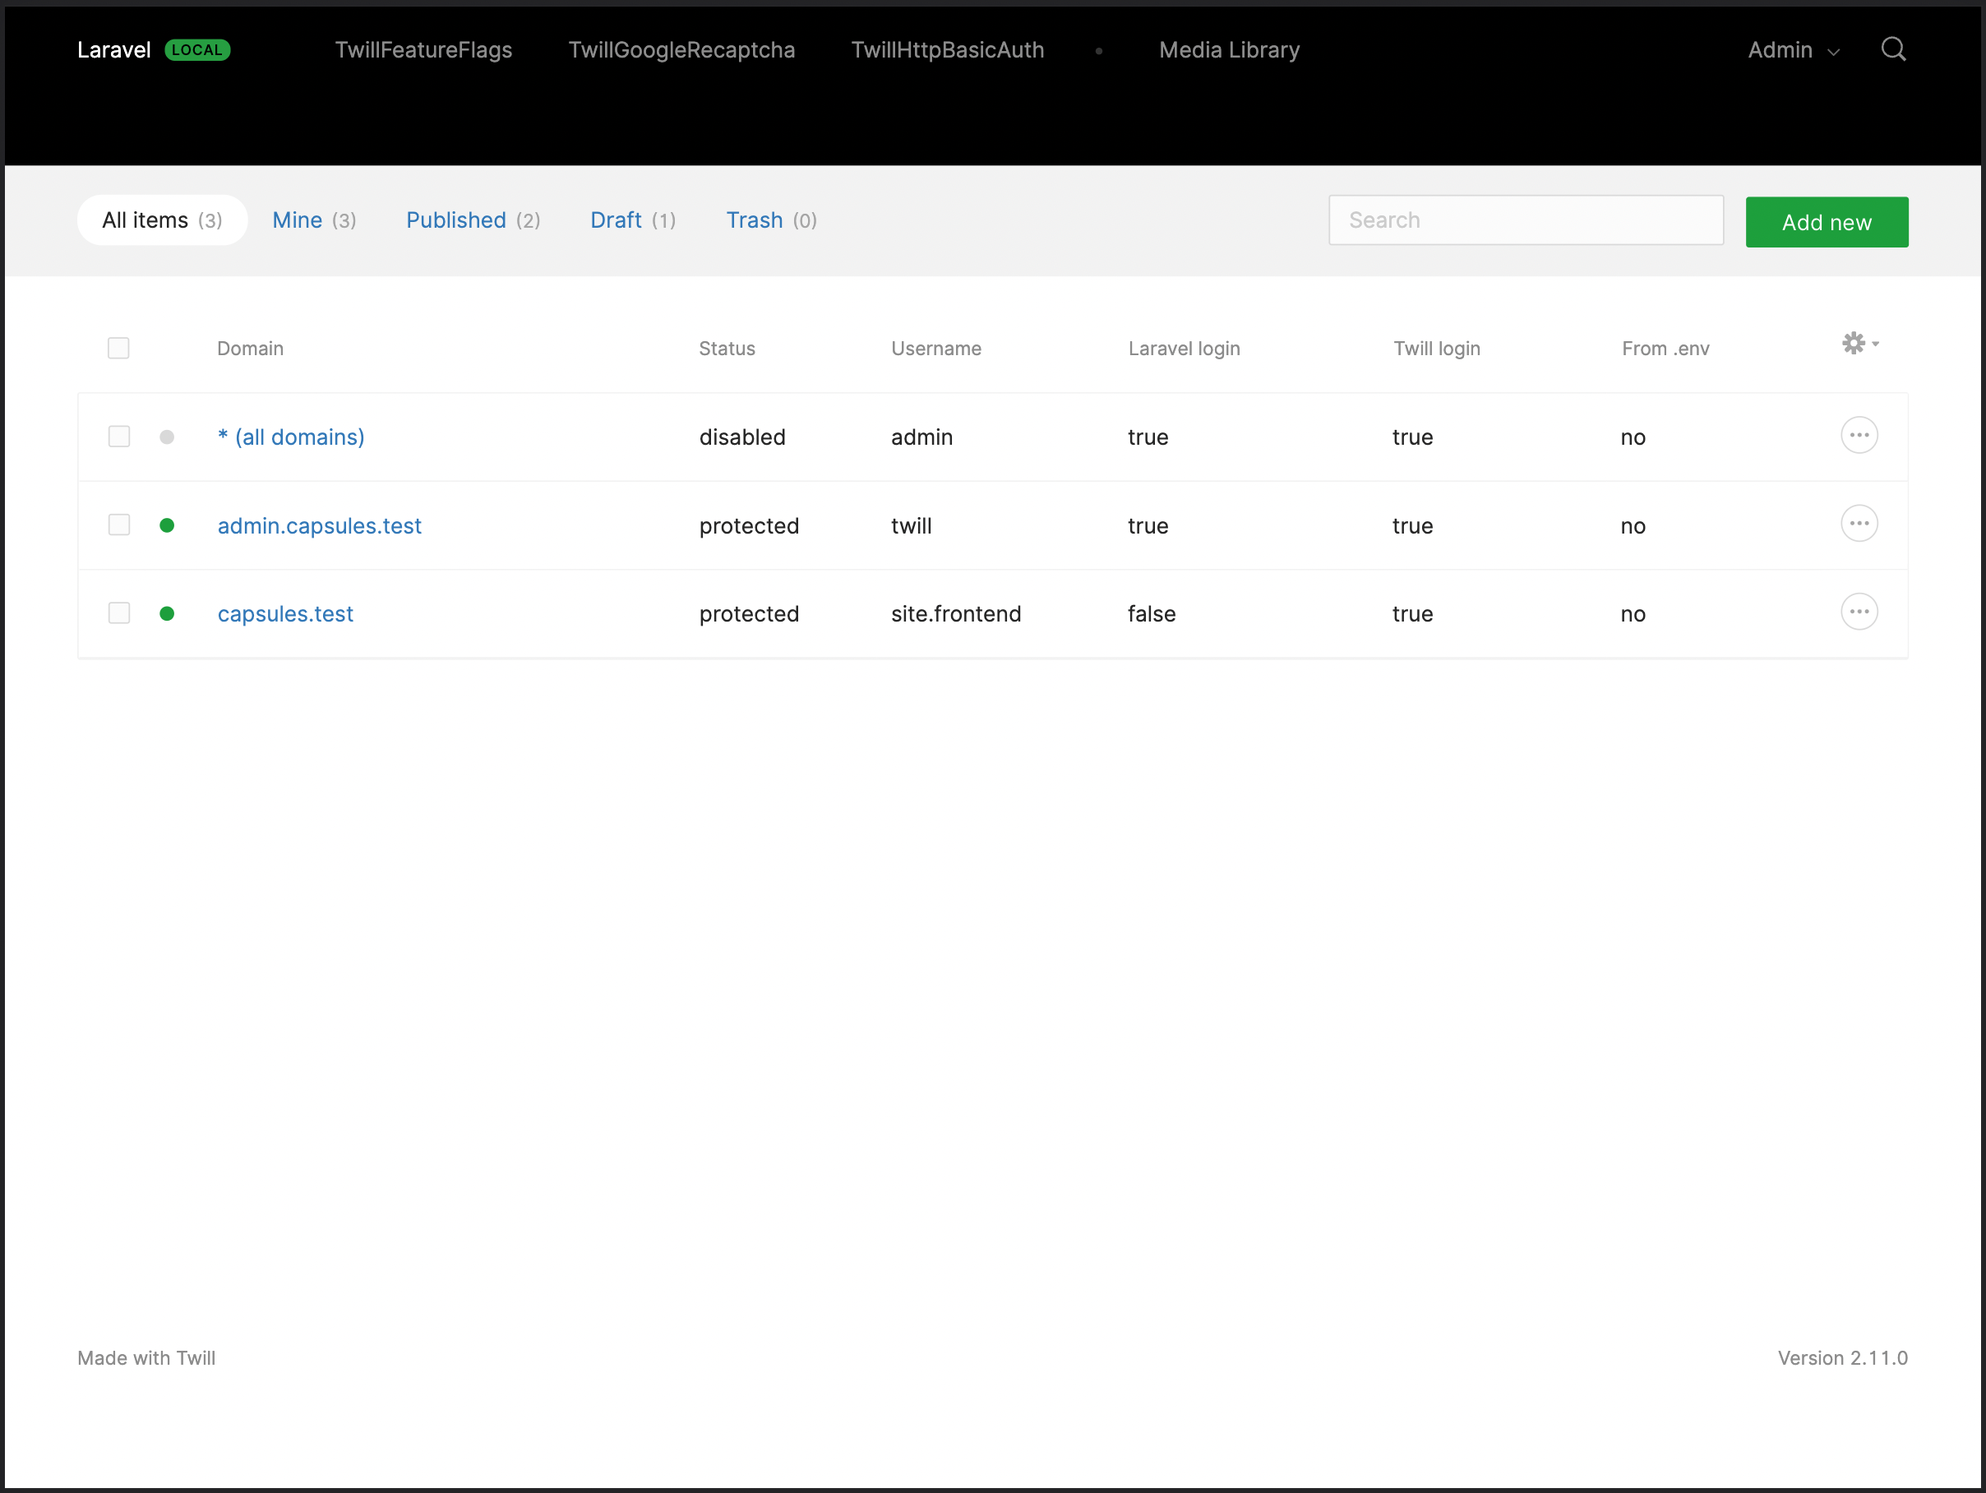
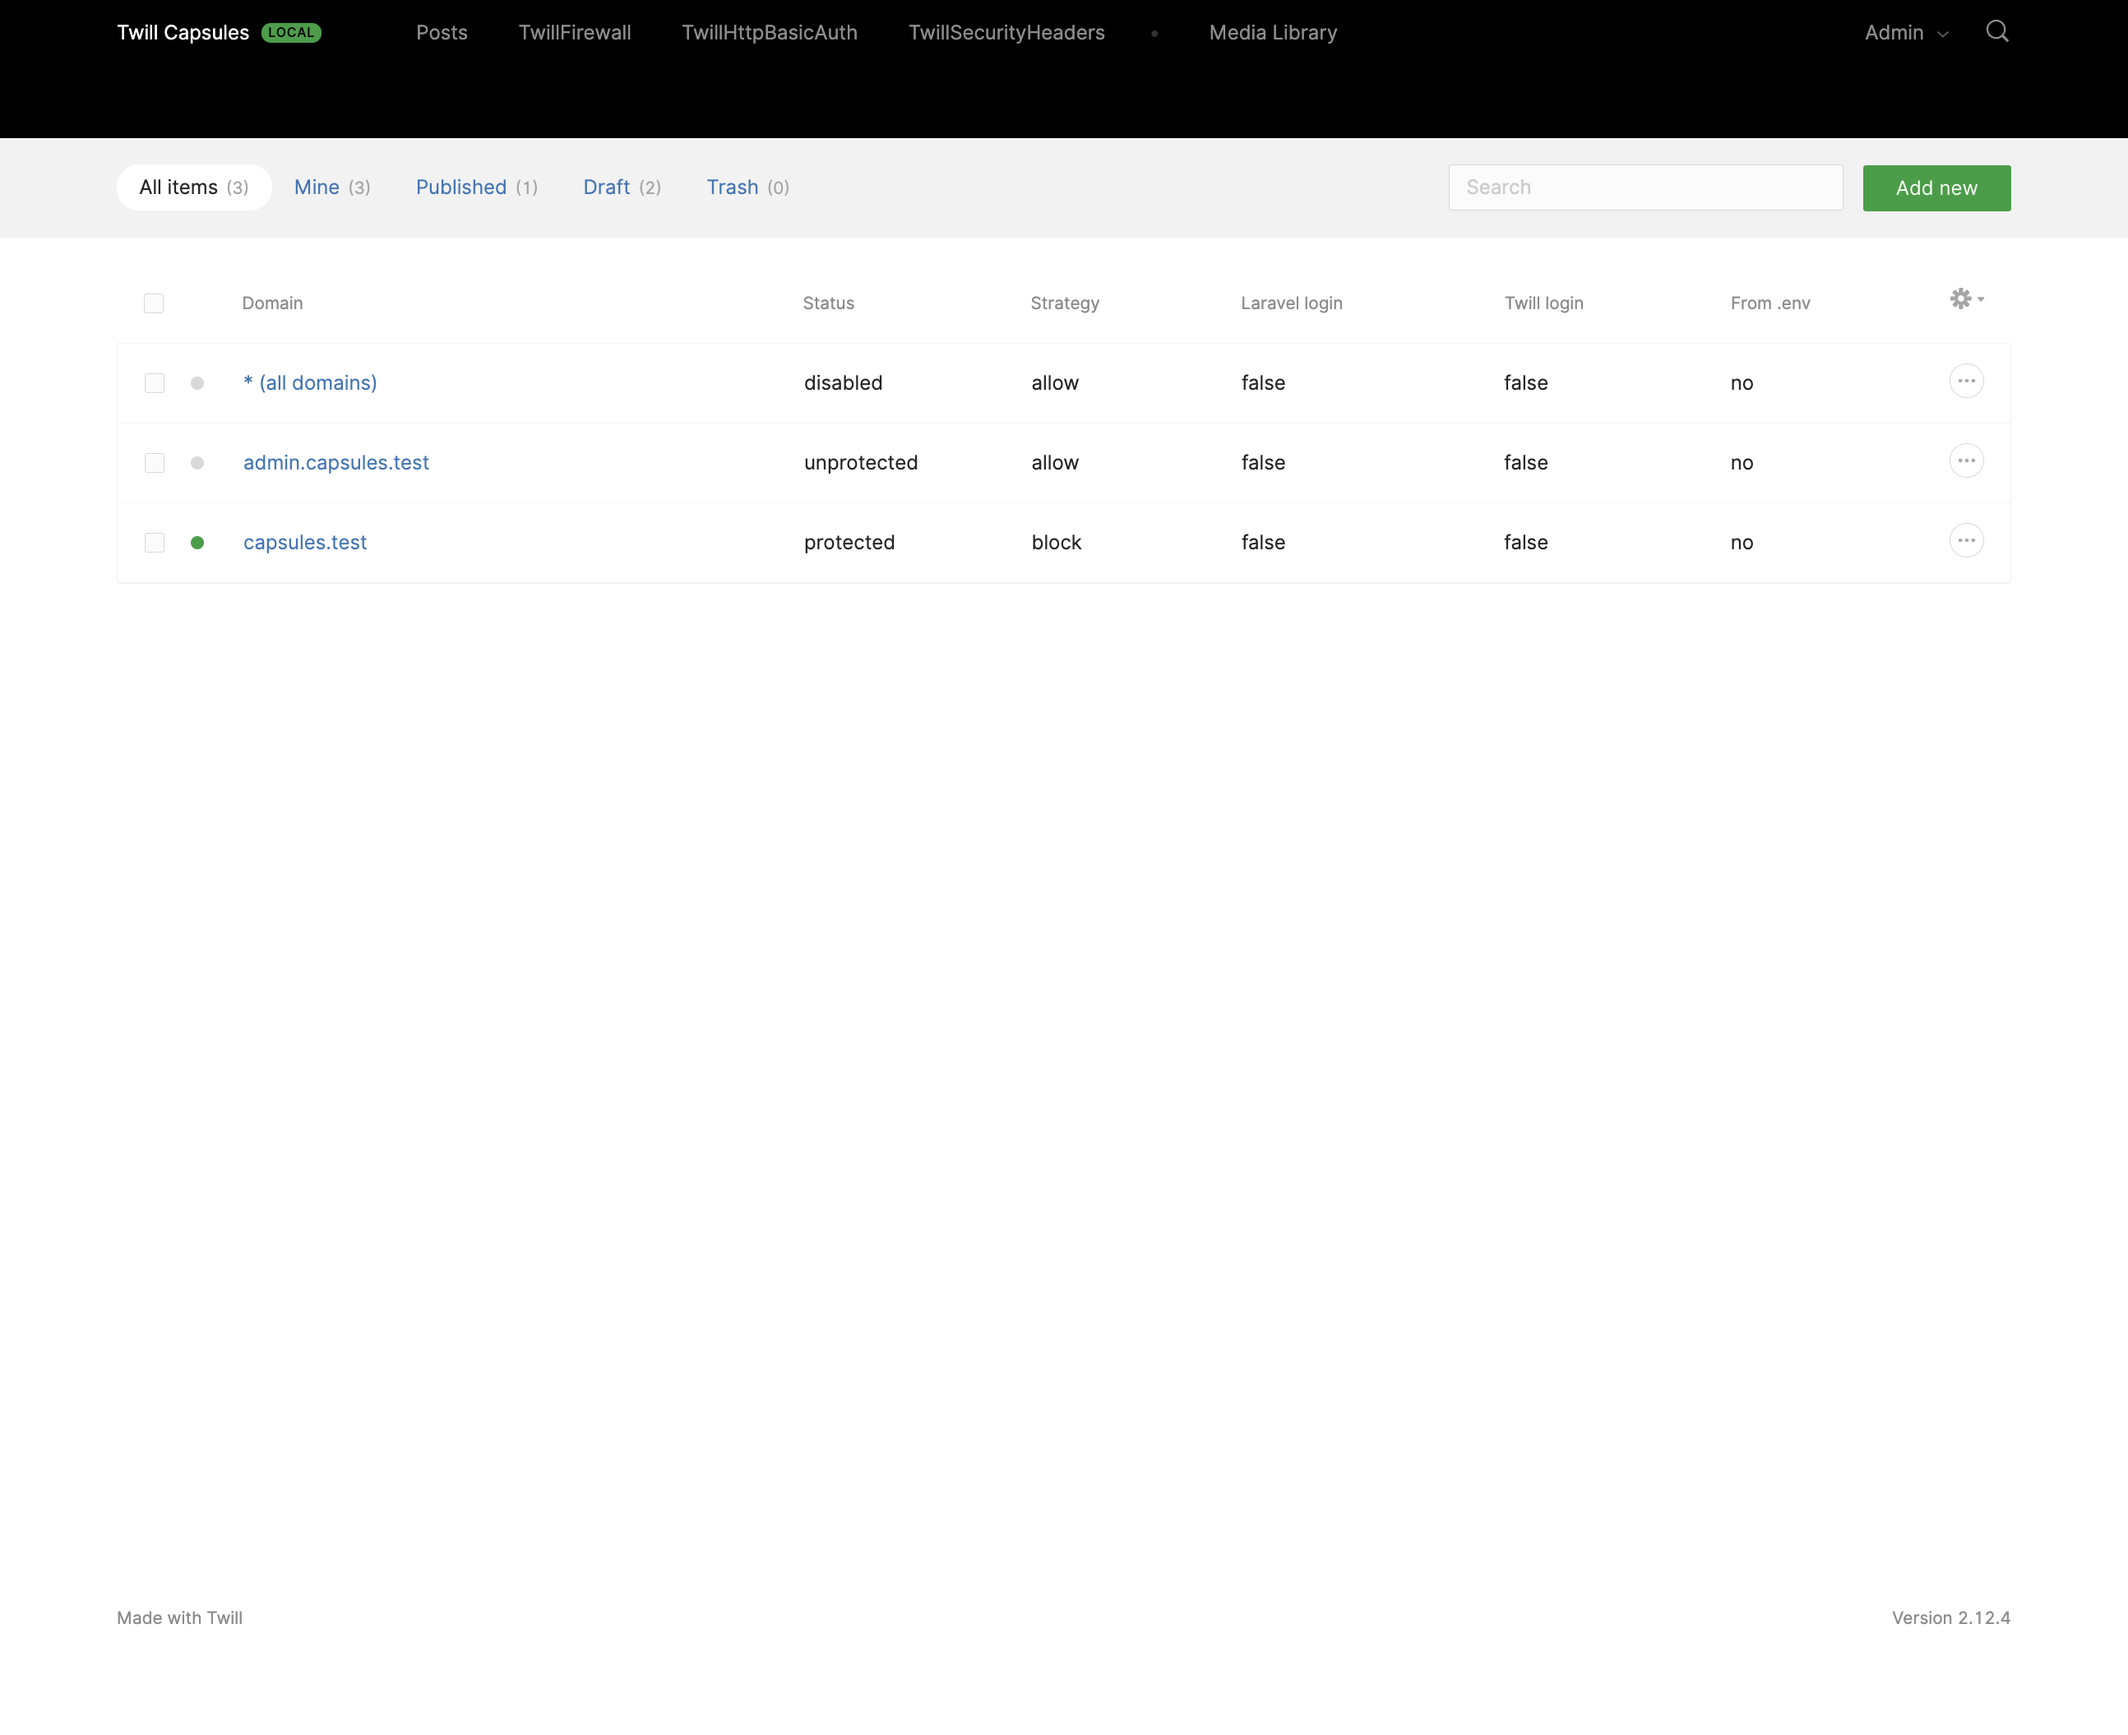
Update screenshots

diff --git a/README.md b/README.md
@@ -10,6 +10,14 @@ This Twill Capsule is intended to enable developers to configure an application 
 
 You add as many domains as you need and configure different passwords for each. Once you enable the `all domains (*)` entry, the same configuration will be used for all, and all other domains will be hidden.
 
+## Features
+
+- "Allow" strategy: only allow access to the listed IP addresses 
+- "Block" strategy: block all listed IP addresses
+- Detects and blocks automatically attacks
+- Automatically add block attacker IP addresses to the block list
+- Redirection instead of blocking. Allow displaying a "Coming soon" page to external users, while giving access to the team. 
+
 ## Middleware
 
 A middleware is automatically added to all `web` routes, but you can configure this behaviour or even disable it to configure your middleware yourself:  
@@ -58,15 +66,10 @@ public function register()
 
 #### .env 
 
-The configuration works both on `.env` or in the CMS settings. If you set them on `.env` the CMS settings will be disabled and overloded by `.env`. 
+Enable it on your `.env` file: 
 
 ```dotenv
 TWILL_FIREWALL_ENABLED=true
-TWILL_FIREWALL_USERNAME=frontend
-TWILL_FIREWALL_PASSWORD=secret
-TWILL_FIREWALL_RATE_LIMITING_ATTEMPTS=5
-TWILL_FIREWALL_TWILL_DATABASE_LOGIN_ENABLED=true
-TWILL_FIREWALL_LARAVEL_DATABASE_LOGIN_ENABLED=true
 ```
 
 ## Contribute
